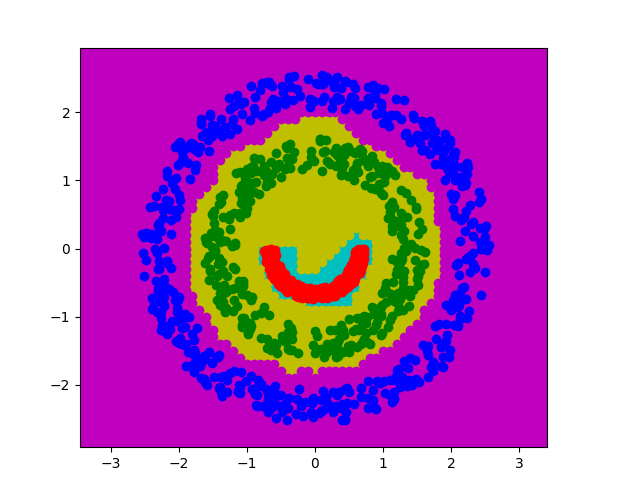
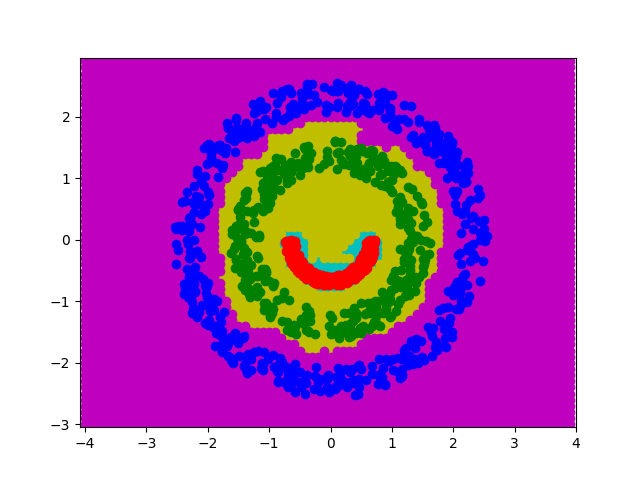
data2a output and code changes.

diff --git a/Assignment2/GMM.py b/Assignment2/GMM.py
@@ -54,7 +54,7 @@ def GMMCluster(DATA,Num_of_Clusters,diagonal=False):#data for class not the enti
 	print "INIT DONE"
 	#--------------------------------------------------------
 	Distortion=[]
-	thresh=0.01
+	thresh=0.1
 	while(len(Distortion)<5 or abs(Distortion[len(Distortion)-1]-Distortion[len(Distortion)-2])>thresh):
 	# while(1>2):
 		# Finding Gamma(n,k)
@@ -68,15 +68,15 @@ def GMMCluster(DATA,Num_of_Clusters,diagonal=False):#data for class not the enti
 				vec.append(0.0)
 			SUM=0.000000000
 			for j in range(Num_of_Clusters):
-				print np.linalg.det(Sigma[j]),"asdddddddd"
-				prod=1
-				for k in range(len(Sigma[j])):
-					prod*=Sigma[j][k][k]
-					print Sigma[j][k][k]
-				print np.linalg.det(Sigma[j])
-				SUM=SUM+(pi[j]*multivariate_normal.pdf(DATA[i],mean=means[j],cov=Sigma[j]))
+				# print np.linalg.det(Sigma[j]),"asdddddddd"
+				# prod=1
+				# for k in range(len(Sigma[j])):
+				# 	prod*=Sigma[j][k][k]
+					# print Sigma[j][k][k]
+				# print np.linalg.det(Sigma[j])
+				SUM=SUM+(pi[j]*multivariate_normal.pdf(DATA[i],mean=means[j],cov=Sigma[j],allow_singular=True))
 			for j in range(Num_of_Clusters):
-				vec[j]=(pi[j]*multivariate_normal.pdf(DATA[i],mean=means[j],cov=Sigma[j]))/SUM
+				vec[j]=(pi[j]*multivariate_normal.pdf(DATA[i],mean=means[j],cov=Sigma[j],allow_singular=True))/SUM
 			Gamma.append(vec)
 			# print vec,max(vec),vec.index(max(vec))
 			Clusters[vec.index(max(vec))].append(DATA[i])
@@ -84,7 +84,7 @@ def GMMCluster(DATA,Num_of_Clusters,diagonal=False):#data for class not the enti
 		num=0.0
 		for i in range(len(DATA)):
 			for k in range(Num_of_Clusters):
-				num=num+pi[k]*multivariate_normal.pdf(DATA[i],mean=means[k],cov=Sigma[k])
+				num=num+pi[k]*multivariate_normal.pdf(DATA[i],mean=means[k],cov=Sigma[k],allow_singular=True)
 		Distortion.append(num)
 		print num
 		#--------------------------------------------------------
@@ -123,7 +123,7 @@ def GMMCluster(DATA,Num_of_Clusters,diagonal=False):#data for class not the enti
 						if(a!=b):
 							temp_sigma[a][b]=0.0
 						if(a==b and temp_sigma[a][b]<=1.0e-10):
-							temp_sigma[a][b]=1.0
+							temp_sigma[a][b]=5.0
 							# print "aaaaaaaaaaaaaaaaaaaaaaaaaaaaaaaaaaaaaaaaaaaaaaaaaaaaaaaaaaaaaaaaaaaaaaaaaaaaa"
 				# print "APPLE is GREAT",np.linalg.det(temp_sigma)
 			Sigma[i]=temp_sigma

diff --git a/Assignment2/GMMClassifier.py b/Assignment2/GMMClassifier.py
@@ -66,7 +66,7 @@ class GMMClassifier(object):
 			for j in range((self.classes)):
 				SUM=0.0
 				for m in range(self.k):	 
-					SUM+=self.pi[j][m]*multivariate_normal.pdf(i,mean=self.means[j][m],cov=self.sigma[j][m])
+					SUM+=self.pi[j][m]*multivariate_normal.pdf(i,mean=self.means[j][m],cov=self.sigma[j][m],allow_singular=True)
 					# print j,m,i,self.pi[j][m],multivariate_normal.pdf(i,mean=self.means[j][m],cov=self.sigma[j][m]),self.means[j][m]
 				# print j,i,math.log(SUM),math.log((self.class_sizes[j]*1.0)/(self.total*1.0))
 				if(SUM!=0 and (math.log(SUM)+math.log((self.class_sizes[j]*1.0)/(self.total*1.0)))>MAX):
@@ -127,7 +127,7 @@ class GMMClassifier(object):
 				for j in range((self.classes)):
 					SUM=0.0
 					for m in range(self.k):	 
-						SUM+=self.pi[j][m]*multivariate_normal.pdf(self.test[i][k],mean=self.means[j][m],cov=self.sigma[j][m])
+						SUM+=self.pi[j][m]*multivariate_normal.pdf(self.test[i][k],mean=self.means[j][m],cov=self.sigma[j][m],allow_singular=True)
 						# print j,m,i,self.pi[j][m],multivariate_normal.pdf(i,mean=self.means[j][m],cov=self.sigma[j][m]),self.means[j][m]
 					# print j,i,math.log(SUM),math.log((self.class_sizes[j]*1.0)/(self.total*1.0))
 					if(SUM!=0 and (math.log(SUM)+math.log((self.class_sizes[j]*1.0)/(self.total*1.0)))>MAX):

diff --git a/Assignment2/main.py b/Assignment2/main.py
@@ -24,14 +24,14 @@ if inp=="1":
 		model.get_conf_matrix()
 	# model.get_conf_pair()
 if inp=="2a":
-	C1,t1=sf.get_data("Data2a/Class1.txt")
-	C2,t2=sf.get_data("Data2a/Class2.txt")
-	C3,t3=sf.get_data("Data2a/Class3.txt")
+	C1,t1=sf.get_data("Data/Data2a/Class1.txt")
+	C2,t2=sf.get_data("Data/Data2a/Class2.txt")
+	C3,t3=sf.get_data("Data/Data2a/Class3.txt")
 	DATA=[C1,C2,C3]
 	test=[t1,t2,t3]
-	k_value = [1, 2, 4, 8, 16, 32, 64]
+	k_value = [16, 32, 64]
 	for i in k_value:
-		model=GMMClassifier.GMMClassifier(DATA,i,[[-10.0,1000.0],[250.0,2550.0]],test)
+		model=GMMClassifier.GMMClassifier(DATA,i,[[-50.0,2000.0],[250.0,2800.0]],test)
 		model.plot_model(10.0)
 		# model.plot_classes(10.0)
 		model.get_conf_matrix()

diff --git a/Assignment2/KMeans.py b/Assignment2/KMeans.py
@@ -13,7 +13,8 @@ def KMeans(DATA,K):
 	cluster_centres=random.sample(temp, K)#	initial random points
 	dimentions=len(DATA[0])
 	D=[]
-	thresh=0.001
+	# thresh=0.001
+	thresh=1.0
 	# print "Hello"
 	while(len(D)<2 or abs(D[len(D)-1]-D[len(D)-2])>thresh):
 		distortion=0.0

diff --git a/Assignment2/bovw.py b/Assignment2/bovw.py
@@ -36,7 +36,9 @@ def getBOVW(cluster_centres):
 if __name__ == '__main__':
 	data = []
 	data = main(data)
+	print np.array(data).shape
 	print len(data)
+	# exit()
 	cluster_centres,Clusters = KMeans_train(data)
 	for i in range(len(Clusters)):
 		print len(Clusters[i])
